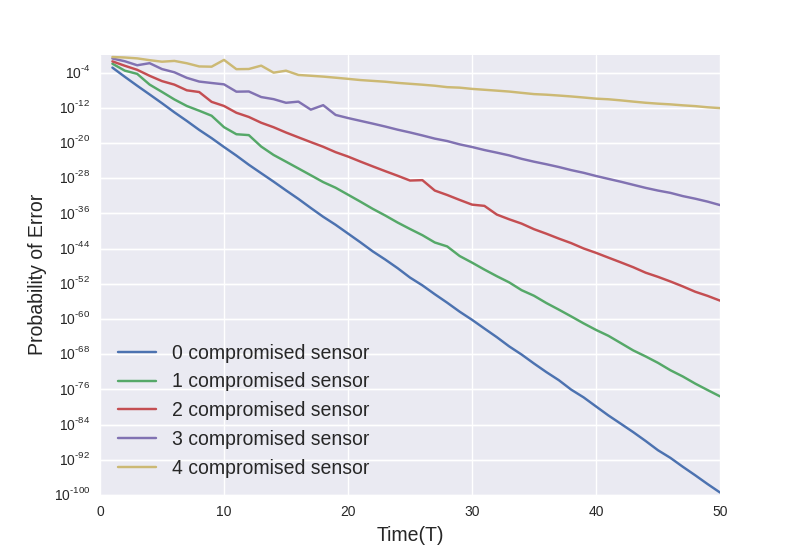
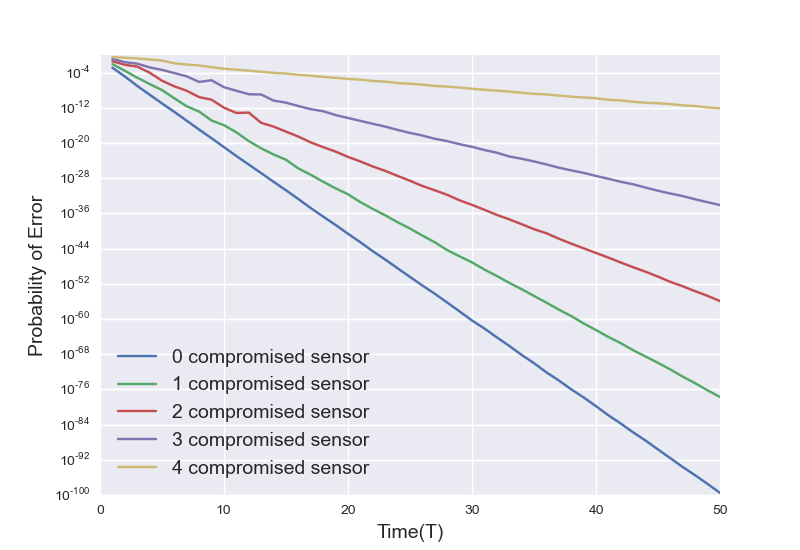
research temp save

diff --git a/research.html b/research.html
@@ -24,7 +24,16 @@ title: Research
 
 <div id="outline-container-sec-2-2" class="outline-3">
 <h3 id="sec-2-2">Resilient Control in Adversarial Environment</h3>
+<div class="outline-text-3" id="text-2-2">
+
+<div class="figure">
+<p><img src="../../public/research-00.png" alt="research-00.png" />
+</p>
+<p><span class="figure-number">Figure 1:</span> We assume a total of 9 sensors, whose measurements follow \(y_i(t) = x + w_i(t)\), where \(w_i(t)\) are i.i.d. standard normal distributed and the state \(x\) is either \(1\) or \(-1\). This figure shows the probability of error when the optimal detector and the optimal attacking strategy are employed. It can be seen that the probability of error converges exponentially fast with rate \((9-2l)/2\), where \(l\) is the total number of compromised sensors.</p>
 </div>
+</div>
+</div>
+
 
 <div id="outline-container-sec-2-3" class="outline-3">
 <h3 id="sec-2-3">Privacy in Distributed Multi-Agent Systems</h3>
